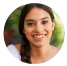
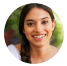
Border + improve author image

diff --git a/public/assets/css/app.css b/public/assets/css/app.css
@@ -4514,6 +4514,8 @@ form .btn {
   margin-top: 10px;
   padding-top: 20px;
   border-radius: 3px; }
+  .grid-box:not(.big-box) h3 a {
+    font-size: 1.7rem; }
   .grid-box .get {
     border: 2px solid #FF0042;
     color: #FF0042;
@@ -4605,7 +4607,9 @@ form .btn {
       height: 64px;
       background: url("/assets/images/dummies/author.png") center no-repeat;
       right: 25px;
-      bottom: 6px; }
+      bottom: 6px;
+      border: 2px solid #fff;
+      border-radius: 40px; }
     .grid-box .img-wrap .social-pic {
       width: 40px;
       height: 40px;

diff --git a/resources/assets/sass/app.scss b/resources/assets/sass/app.scss
@@ -222,6 +222,11 @@ form{
   padding-top: 20px;
   border-radius: 3px;
 
+  &:not(.big-box){
+    h3 a{
+      font-size: 1.7rem;
+    }
+  }
 
   .get{
       border: 2px solid $iridium;
@@ -356,6 +361,8 @@ form{
       background: url("/assets/images/dummies/author.png") center no-repeat;
       right: 25px;
       bottom: 6px;
+      border: 2px solid #fff;
+      border-radius: 40px;
     }
 
     .social-pic{
